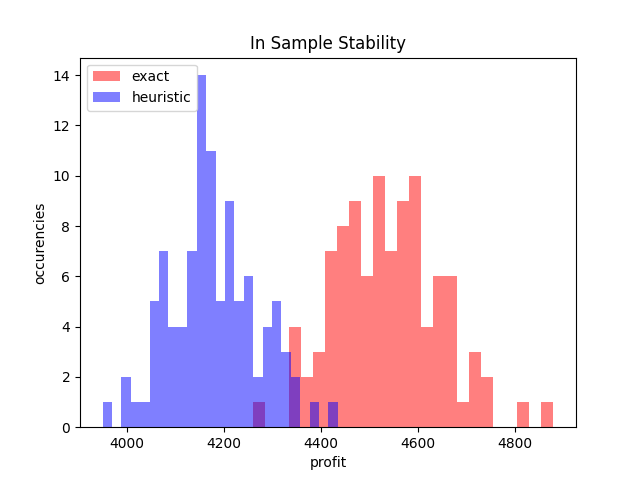
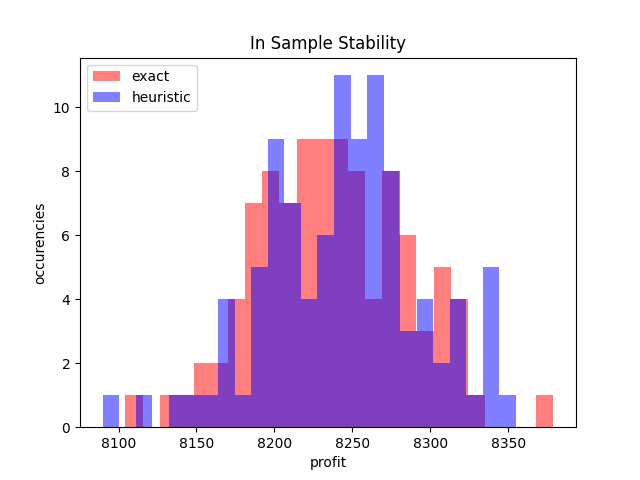
results corrected heuristic with stability

diff --git a/main.py b/main.py
@@ -53,11 +53,11 @@ if __name__ == '__main__':
     )
     test = Tester()
     # printing results of a file
-    file_output = open(
-        "./results/grid_serach_penalty.csv",
-        "w"
-    )
-    file_output.write("method, of, time, rho, alpha, iteration, sol\n")
+    # file_output = open(
+    #     "./results/grid_serach_penalty.csv",
+    #     "w"
+    # )
+    # file_output.write("method, of, time, rho, alpha, sol\n")
 
 
     """
@@ -65,50 +65,45 @@ if __name__ == '__main__':
     """
     print("EXACT METHOD")
     prb = BikeSharing()
-    of_exact, sol_exact, comp_time_exact = prb.solve(
-        inst,
-        demand_matrix,
-        n_scenarios,
-    )
-    file_output.write("{}, {}, {}, {}, {}, {}, {}\n".format(
-        "exact", of_exact, comp_time_exact, 0, 0, 0, ' '.join(str(e) for e in sol_exact)
-    ))
+    # of_exact, sol_exact, comp_time_exact = prb.solve(
+    #     inst,
+    #     demand_matrix,
+    #     n_scenarios,
+    # )
+    # file_output.write("{}, {}, {}, {}, {}, {}\n".format(
+    #     "exact", of_exact, comp_time_exact, 0, 0 ' '.join(str(e) for e in sol_exact)
+    # ))
 
     """
     heuristic solution using the progressive hedging algorithm
     """
     print("HEURISTIC METHOD")
     heu = SimpleHeu()
-    # r = 1
-    # alpha = 1
     # of_heu, sol_heu, comp_time_heu, iter = heu.solve(
     #     inst,
     #     demand_matrix,
-    #     n_scenarios,
-    #     r,
-    #     alpha
+    #     n_scenarios
     # )
-    # file_output.write("{}, {}, {}\n".format(
-    #     "heu", of_heu, comp_time_heu, r, alpha, iter, ' '.join(str(e) for e in sol_heu)
-    # ))
 
-    
+    # ########################################################
+    # SEARCH FOR GOOD VALUES OF PENALTY AND ALPHA
+    # ########################################################
 
-    for r in np.arange(10, 110, 30):
-        for alpha in np.arange(1, 2, 0.2):
-            print("TRYING WITH ALPHA=: ", alpha, "AND PENALTY=", r)
-            of_heu, sol_heu, comp_time_heu, iter = heu.solve(
-                inst,
-                demand_matrix,
-                n_scenarios,
-                round(r),
-                round(alpha)
-            )
-            file_output.write("{}, {}, {}, {}, {}, {}, {}\n".format(
-                "heu", of_heu, comp_time_heu, r, alpha, iter, ' '.join(str(e) for e in sol_heu)
-            ))
+    # for r in np.arange(10, 110, 30):
+    #     for alpha in [1.1, 10, 100]:
+    #         print("TRYING WITH ALPHA=: ", alpha, "AND PENALTY=", r)
+    #         of_heu, sol_heu, comp_time_heu = heu.solve(
+    #             inst,
+    #             demand_matrix,
+    #             n_scenarios,
+    #             round(r, 1),
+    #             round(alpha, 1)
+    #         )
+    #         file_output.write("{}, {}, {}, {}, {}, {}\n".format(
+    #             "heu", of_heu, comp_time_heu, r, alpha ' '.join(str(e) for e in sol_heu)
+    #         ))
 
-    file_output.close()
+    # file_output.close()
 
     # #########################################################
     # RECOURSE PROBLEM
@@ -197,19 +192,23 @@ if __name__ == '__main__':
     This requirement guarantees that whichever scenario tree we choose, the optimal value of the objective function reported by the model itself is (approximately) the same.
     We evaluate different solutions on different generated trees and if the results are similar (distribution is gaussian), we have in sample stability
     """
-    # test = Tester()
-    # n_scenarios = 1000
-    # n_rep = 100
+    test = Tester()
+    n_scenarios = 100
+    n_rep = 100
+    print("IN SAMPLE STABILITY ANALYSIS")
     
-    # in_samp_exact = test.in_sample_stability(prb, sam, inst, n_rep, n_scenarios)
-    # in_samp_heu = test.in_sample_stability(heu, sam, inst, n_rep, n_scenarios)
+    print("EXACT MODEL START...")
+    in_samp_exact = test.in_sample_stability(prb, sam, inst, n_rep, n_scenarios)
 
-    # plot_comparison_hist(
-    #     [in_samp_exact, in_samp_heu],
-    #     ["exact", "heuristic"],
-    #     ['red', 'blue'], "In Sample Stability",
-    #     "profit", "occurencies"
-    # )
+    print("HEUTISTIC MODEL START...")
+    in_samp_heu = test.in_sample_stability(heu, sam, inst, n_rep, n_scenarios)
+
+    plot_comparison_hist(
+        [in_samp_exact, in_samp_heu],
+        ["exact", "heuristic"],
+        ['red', 'blue'], "In Sample Stability",
+        "profit", "occurencies"
+    )
 
     # ##########################################################
     # OUT OF SAMPLE STABILITY ANALYSIS
@@ -217,23 +216,23 @@ if __name__ == '__main__':
     """
     The out-of-sample stability test investigates whether a scenario generation method, with the selected sample  size,  creates  scenario  trees  that  provide  optimal  solutions  that  give  approximately  the  same optimal value as when using the true probability distribution.
     """
-    # n_scenarios_first = 500
-    # n_scenarios_second = 500
-    # n_rep = 100
-    # print("OUT OF SAMPLE STABILITY ANALYSIS")
+    n_scenarios_first = 100
+    n_scenarios_second = 100
+    n_rep = 100
+    print("OUT OF SAMPLE STABILITY ANALYSIS")
     
-    # print("EXACT MODEL START...")
-    # out_samp_exact = test.out_of_sample_stability(prb, sam, inst, n_rep, n_scenarios_first, n_scenarios_second)
+    print("EXACT MODEL START...")
+    out_samp_exact = test.out_of_sample_stability(prb, sam, inst, n_rep, n_scenarios_first, n_scenarios_second)
     
-    # print("HEUTISTIC MODEL START...")
-    # out_samp_heu = test.out_of_sample_stability(heu, sam, inst, n_rep, n_scenarios_first, n_scenarios_second)
+    print("HEUTISTIC MODEL START...")
+    out_samp_heu = test.out_of_sample_stability(heu, sam, inst, n_rep, n_scenarios_first, n_scenarios_second)
 
-    # plot_comparison_hist(
-    #     [out_samp_exact, out_samp_heu],
-    #     ["exact", "heuristic"],
-    #     ['red', 'blue'], "Out of Sample Stability",
-    #     "profit", "occurencies"
-    # )
+    plot_comparison_hist(
+        [out_samp_exact, out_samp_heu],
+        ["exact", "heuristic"],
+        ['red', 'blue'], "Out of Sample Stability",
+        "profit", "occurencies"
+    )
 
     # ##########################################################################################
     # write results of in and out of saple analysis so you don't have to run it again

diff --git a/heuristic/simpleHeu.py b/heuristic/simpleHeu.py
@@ -182,7 +182,7 @@ class SimpleHeu():
     
 
     def solve(
-        self, instance, scenarios, n_scenarios, rho = 1, alpha=1
+        self, instance, scenarios, n_scenarios, rho = 70, alpha=100
     ):
         ans = []
         of_array = []
@@ -217,8 +217,7 @@ class SimpleHeu():
             if ( np.all(abs(x_s_arrays-TGS) <= 0.5) ):
                 break
 
-            
-            print("ITERAZIONE:",k)    
+   
             x_s_arrays = []
             of_array = []
             ans = []
@@ -237,11 +236,10 @@ class SimpleHeu():
             # update the multipliers
             lam = lam + rho*(x_s_arrays - TGS)
             rho = alpha*rho
-            print("Obj. Fun. Result = ", np.average(of_array, axis=0))
 
         end = time.time()
         comp_time = end - start
 
         sol_x = TGS
         of = np.average(of_array, axis=0)
-        return of, sol_x, comp_time, k
+        return of, sol_x, comp_time
